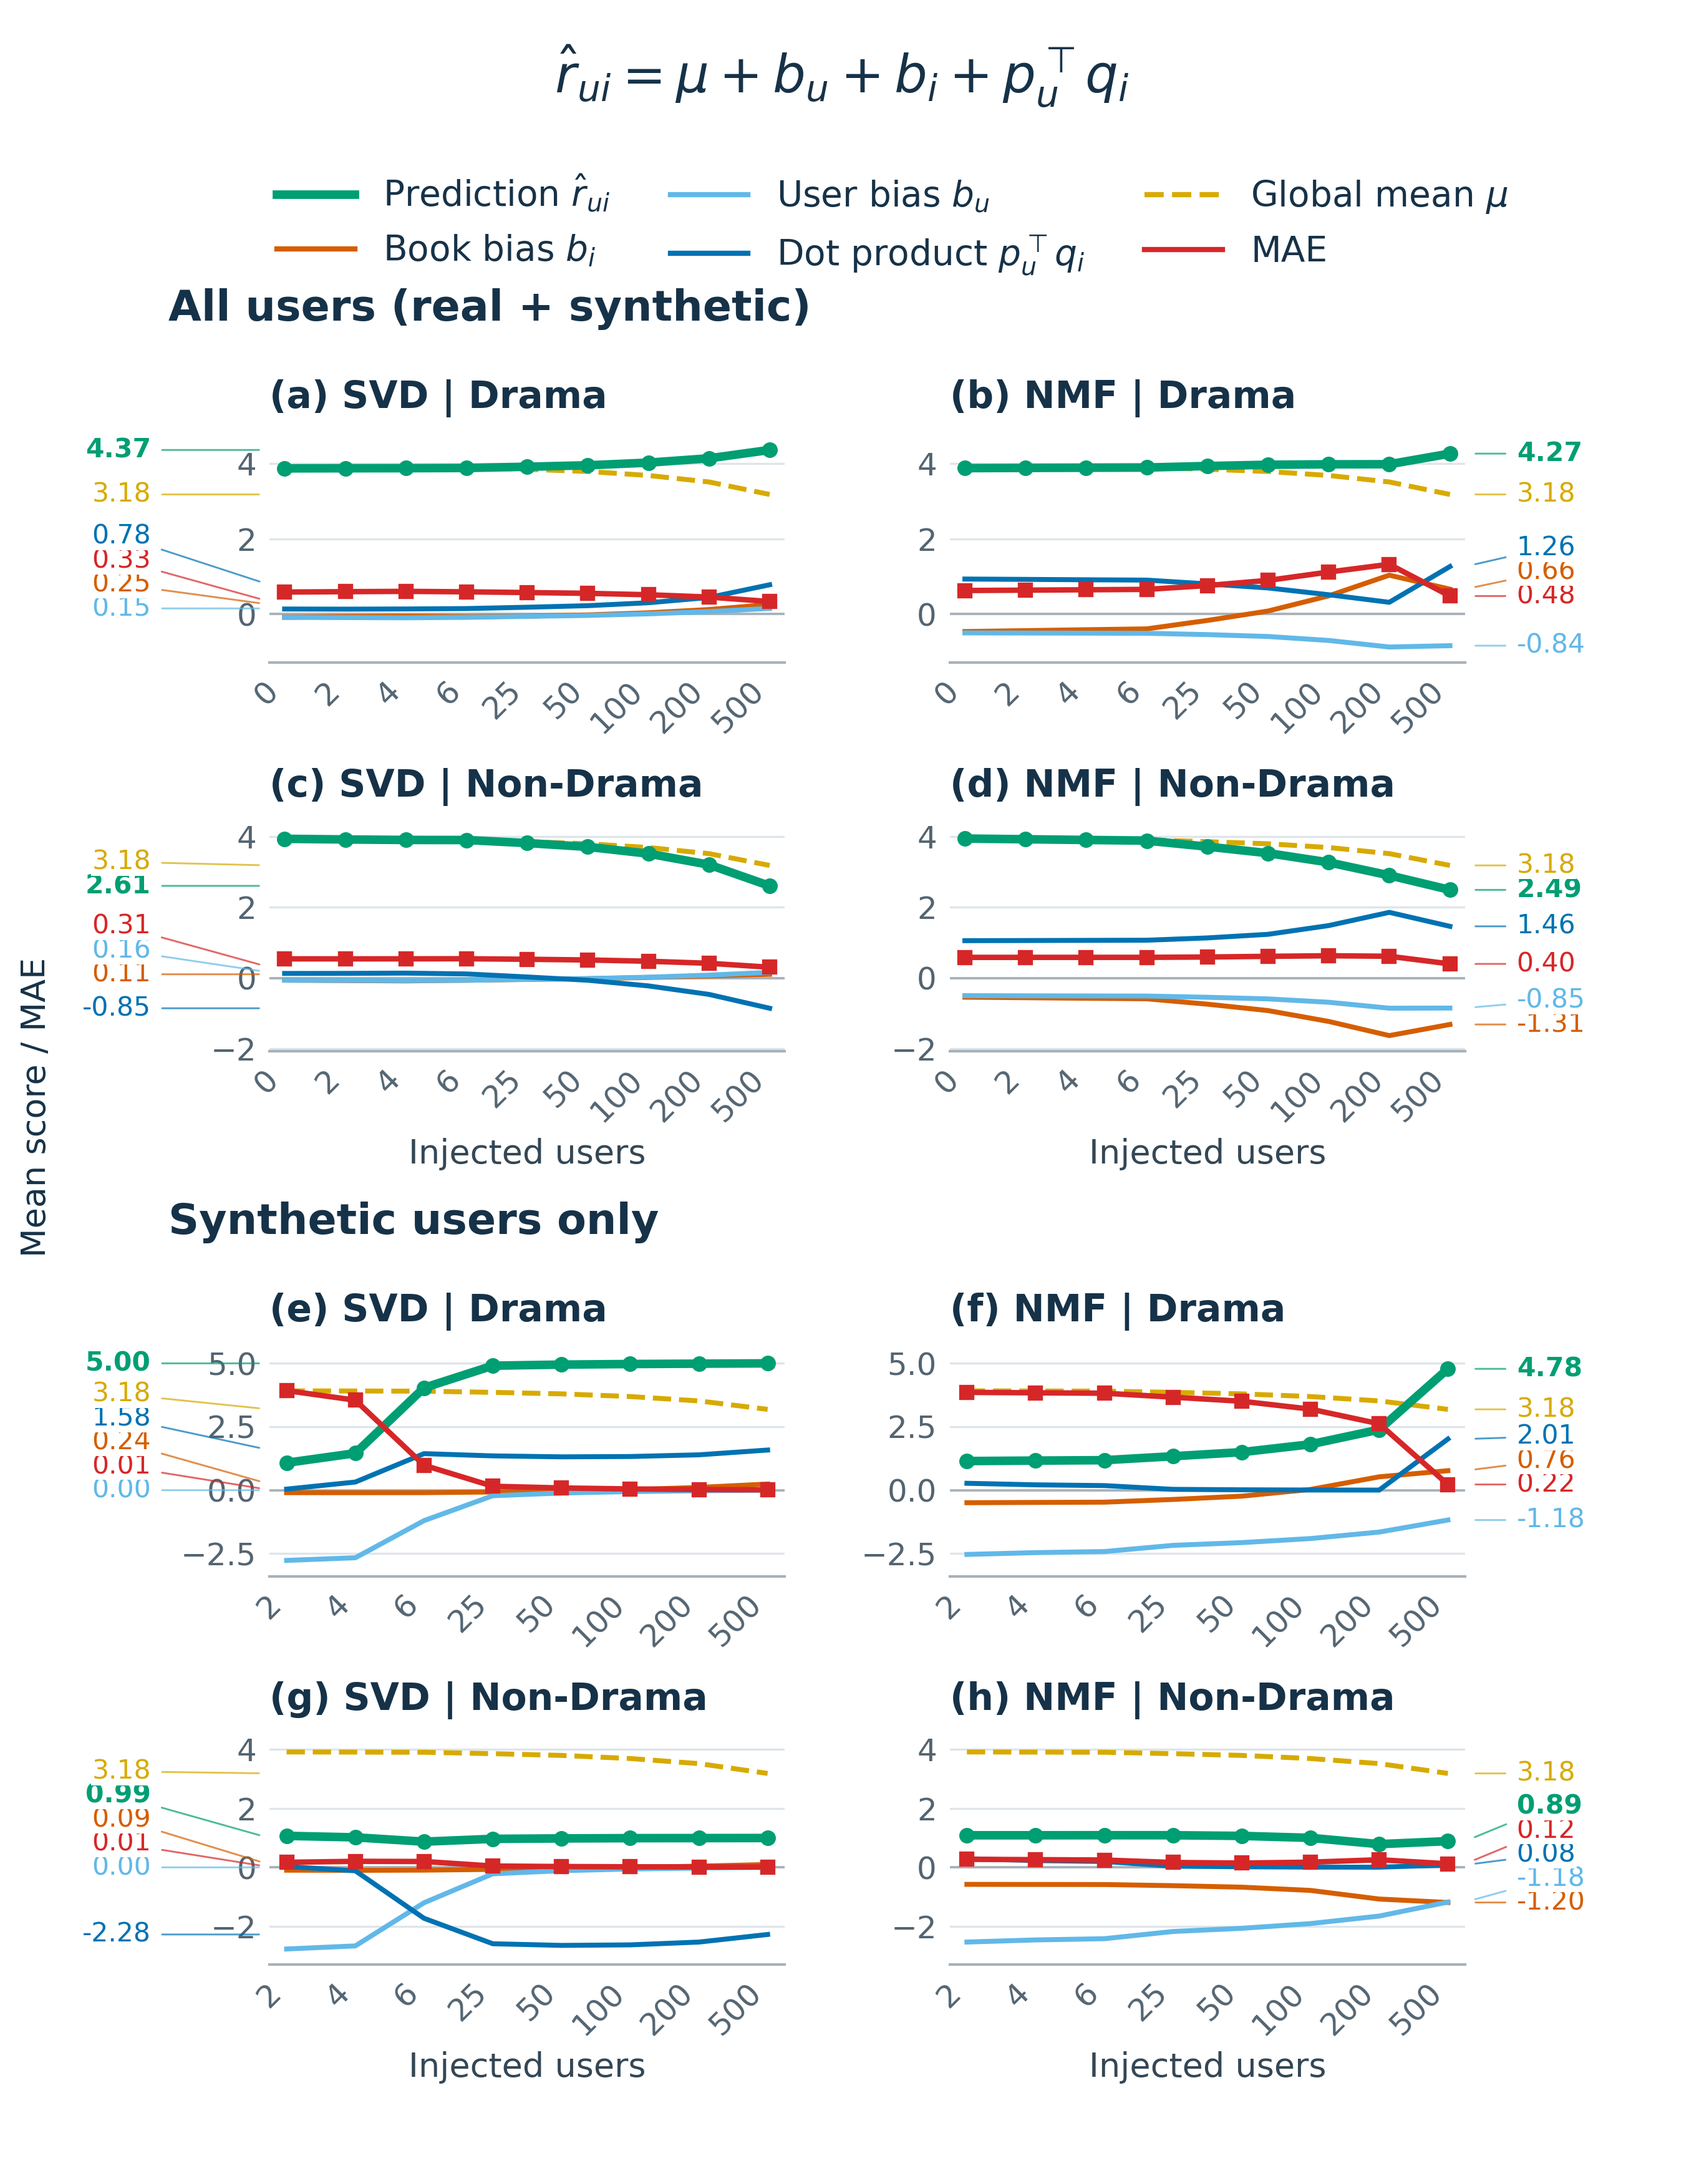
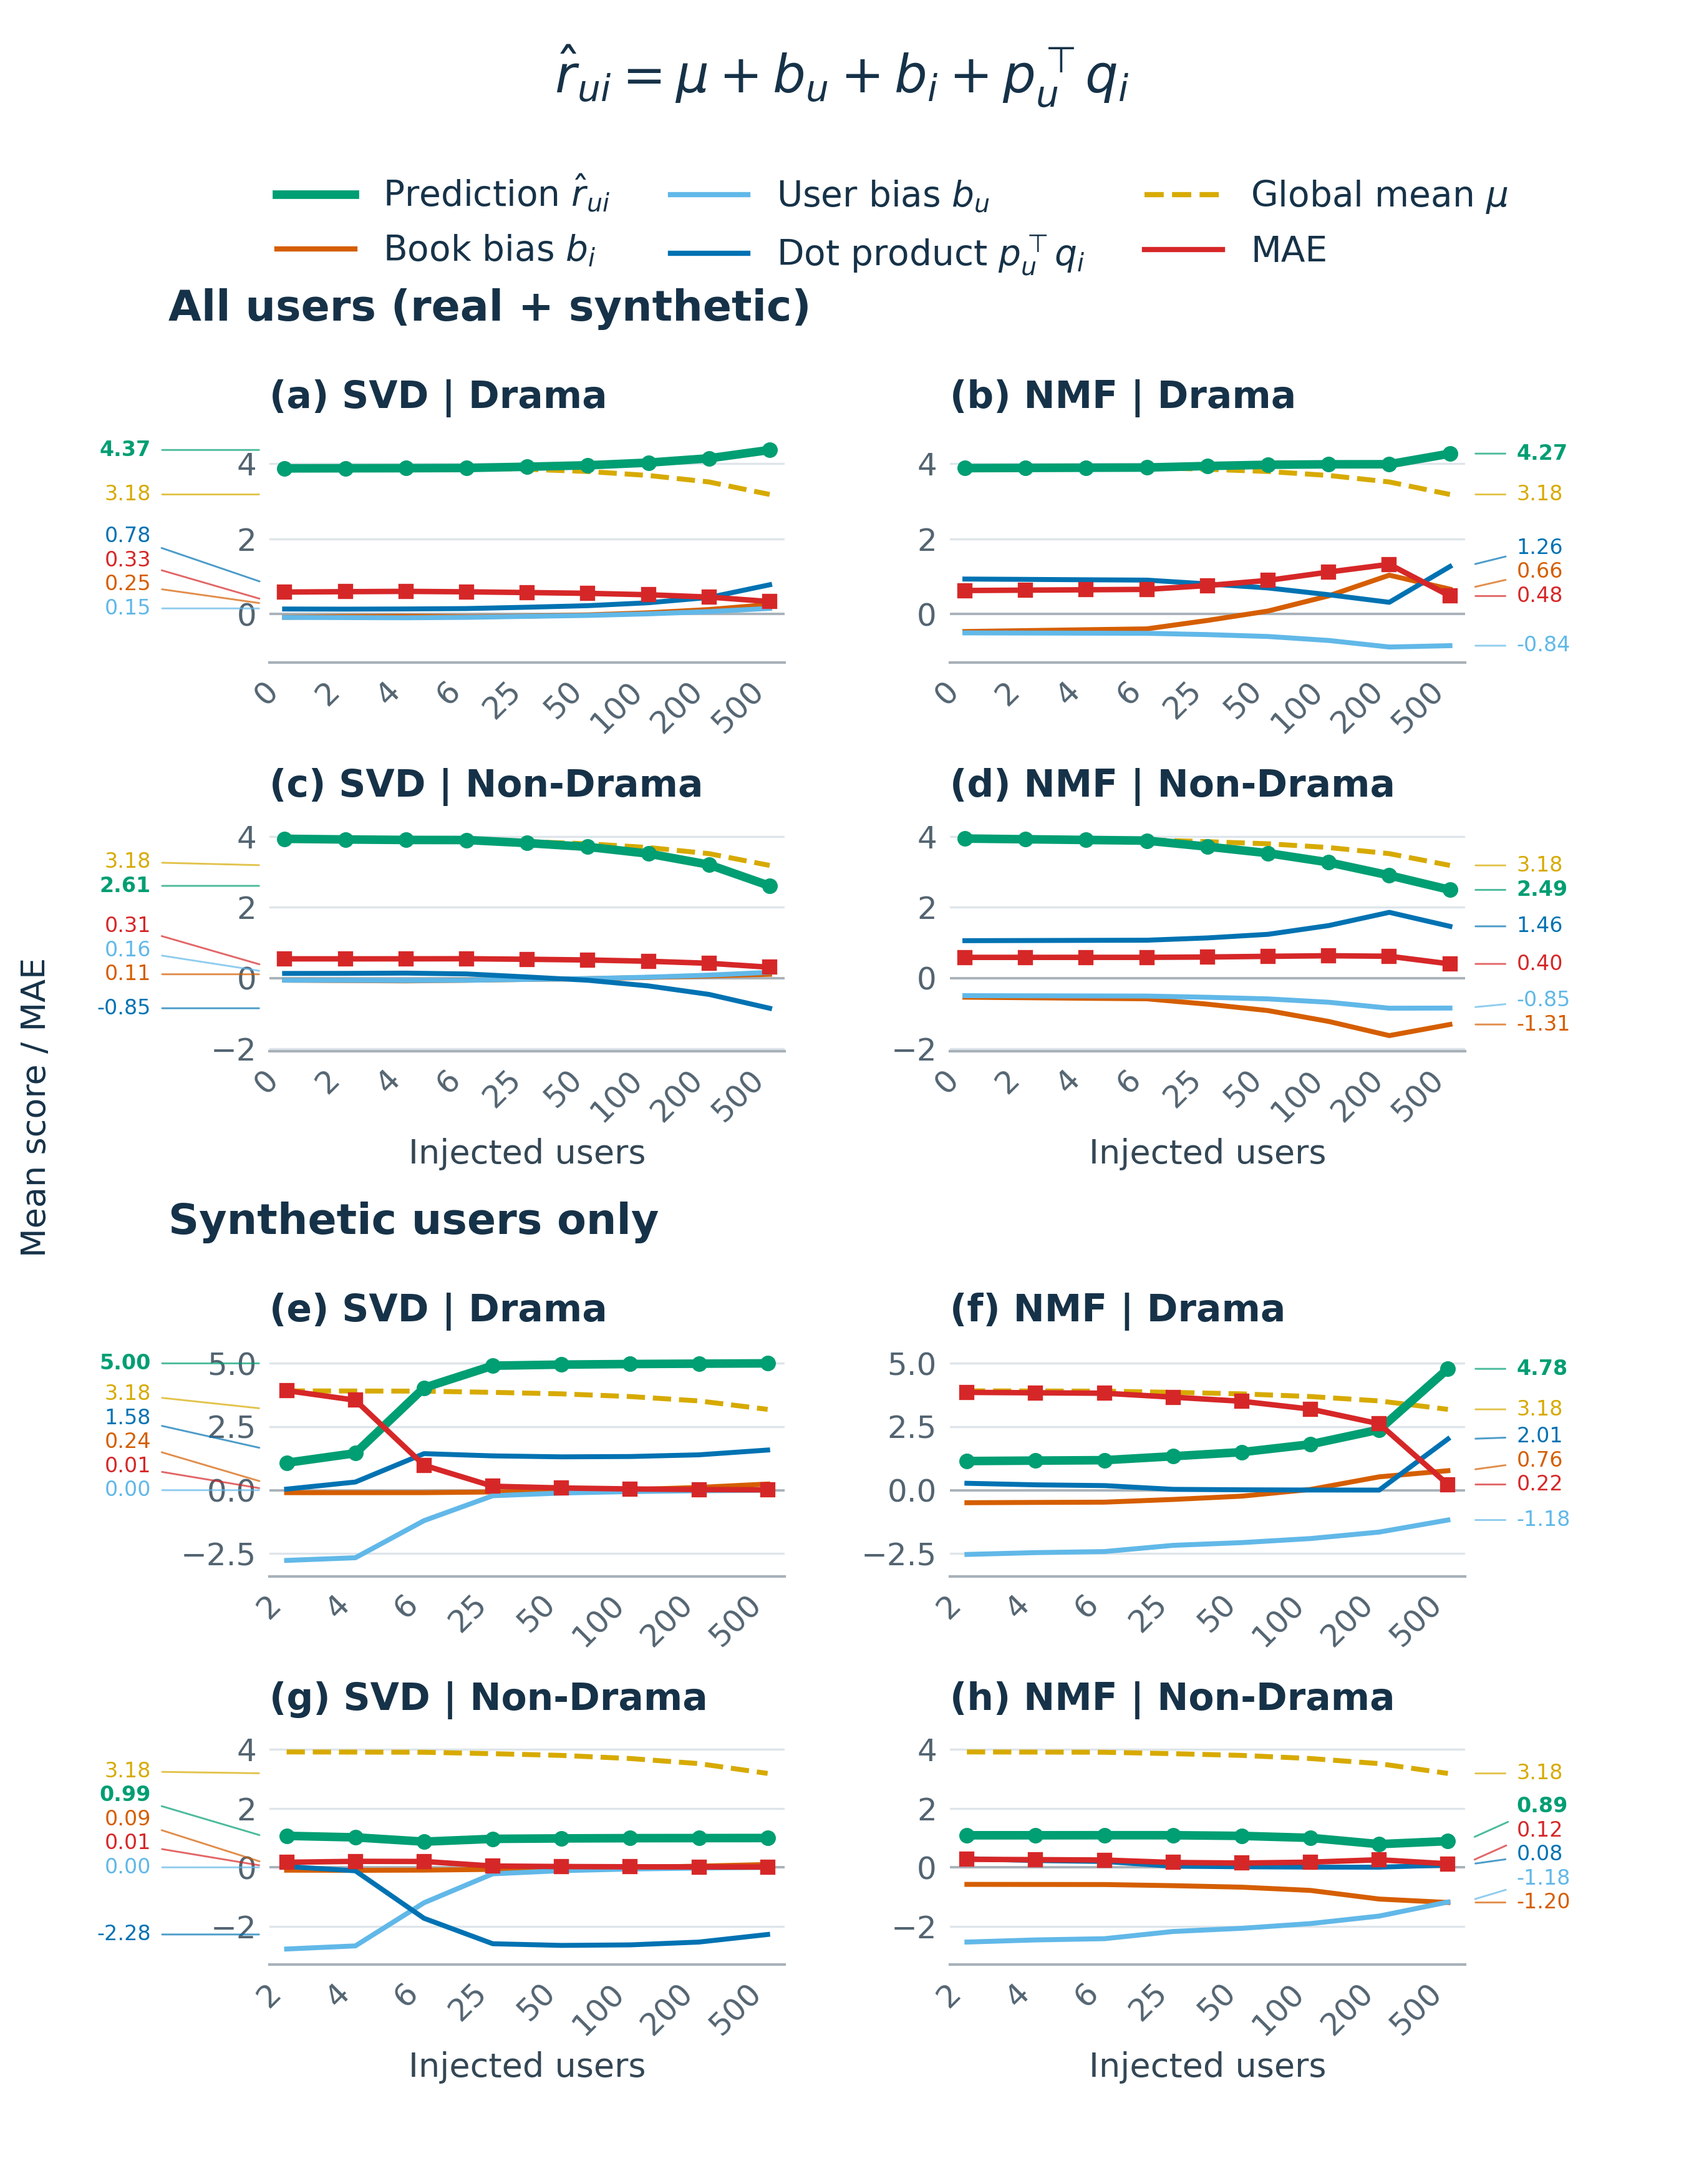
Reduce endpoint label font in training panels

diff --git a/First_paper_material/notebook/build_genre_reviewer_figures.py b/First_paper_material/notebook/build_genre_reviewer_figures.py
@@ -57,7 +57,7 @@ def endpoint_labels(ax,d,col):
   if txt=='-0.00':txt='0.00'
   ax.annotate(txt,xy=(0 if col==0 else 1,vals[j]),xycoords=('axes fraction','data'),
    xytext=(x,y),textcoords=('axes fraction','data'),ha='right' if col==0 else 'left',
-   va='center',fontsize=5.1,fontweight='bold' if keys[j]=='mean_prediction' else 'normal',
+   va='center',fontsize=4.0,fontweight='bold' if keys[j]=='mean_prediction' else 'normal',
    color=COLORS[keys[j]],annotation_clip=False,
    arrowprops=dict(arrowstyle='-',color=COLORS[keys[j]],lw=.35,alpha=.7),
    bbox=dict(facecolor='white',edgecolor='none',pad=.15))
